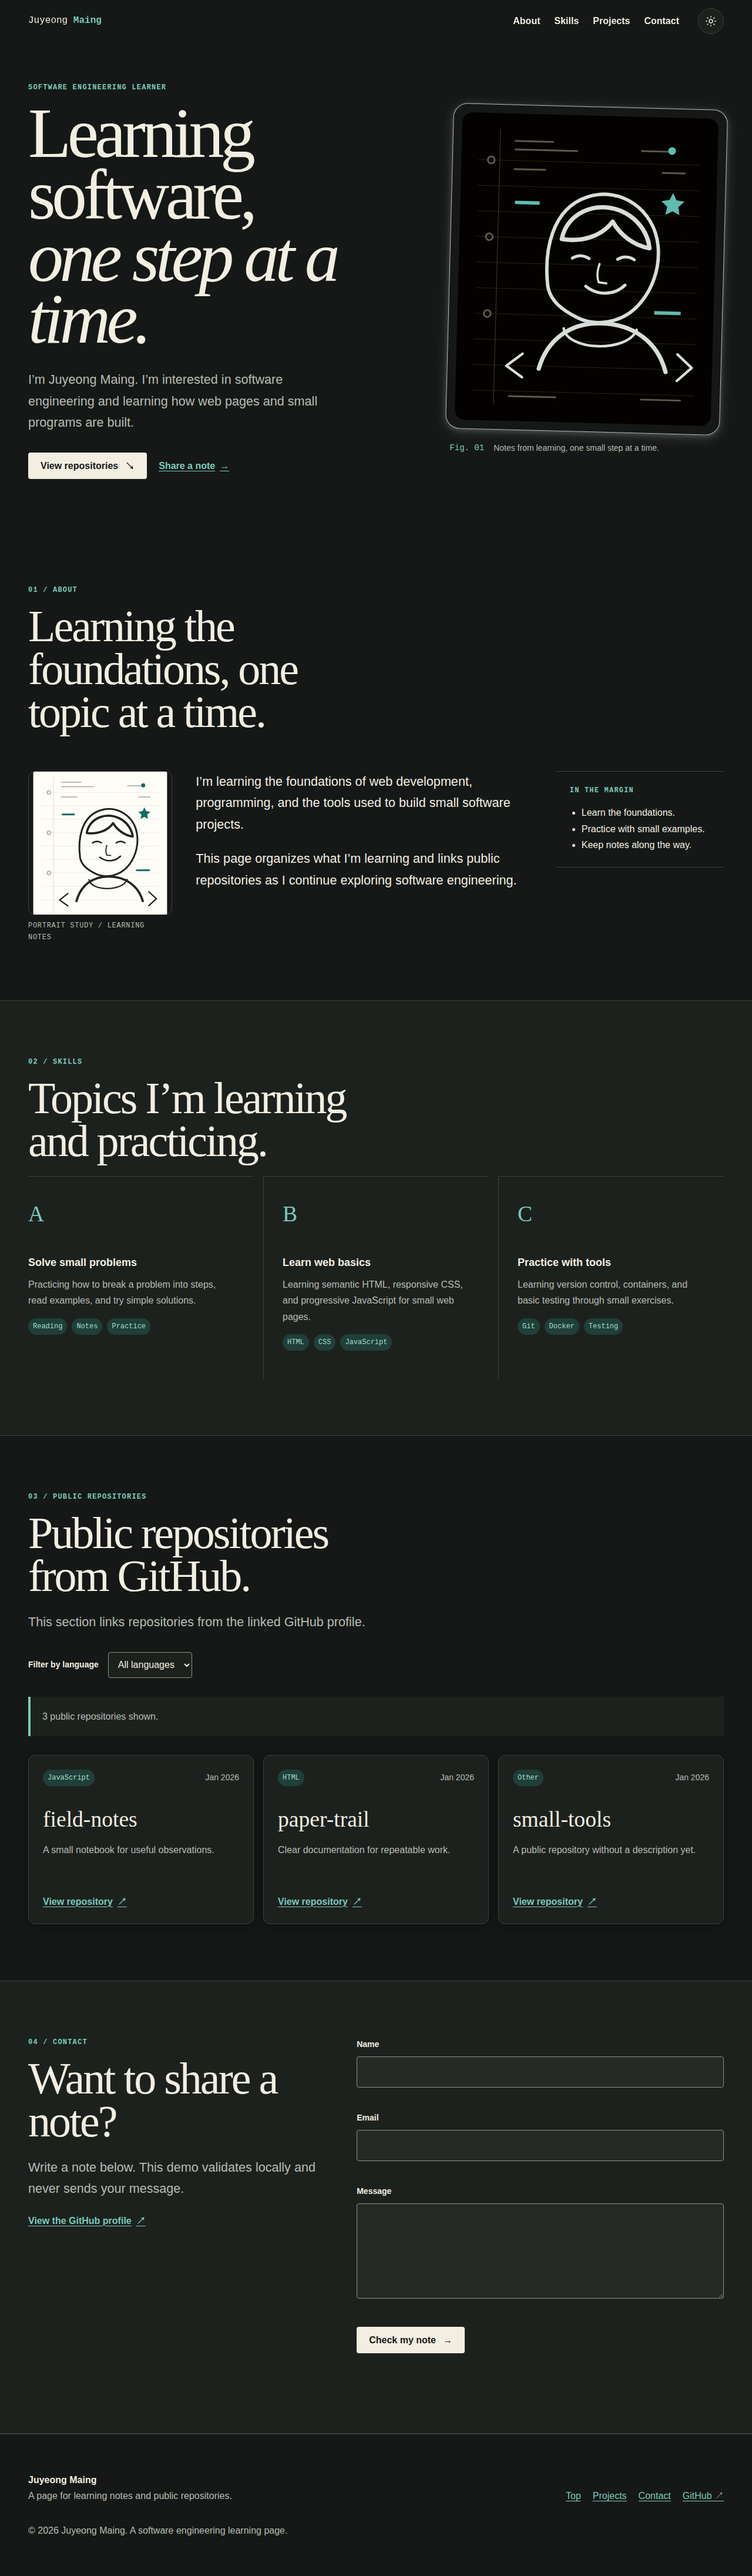
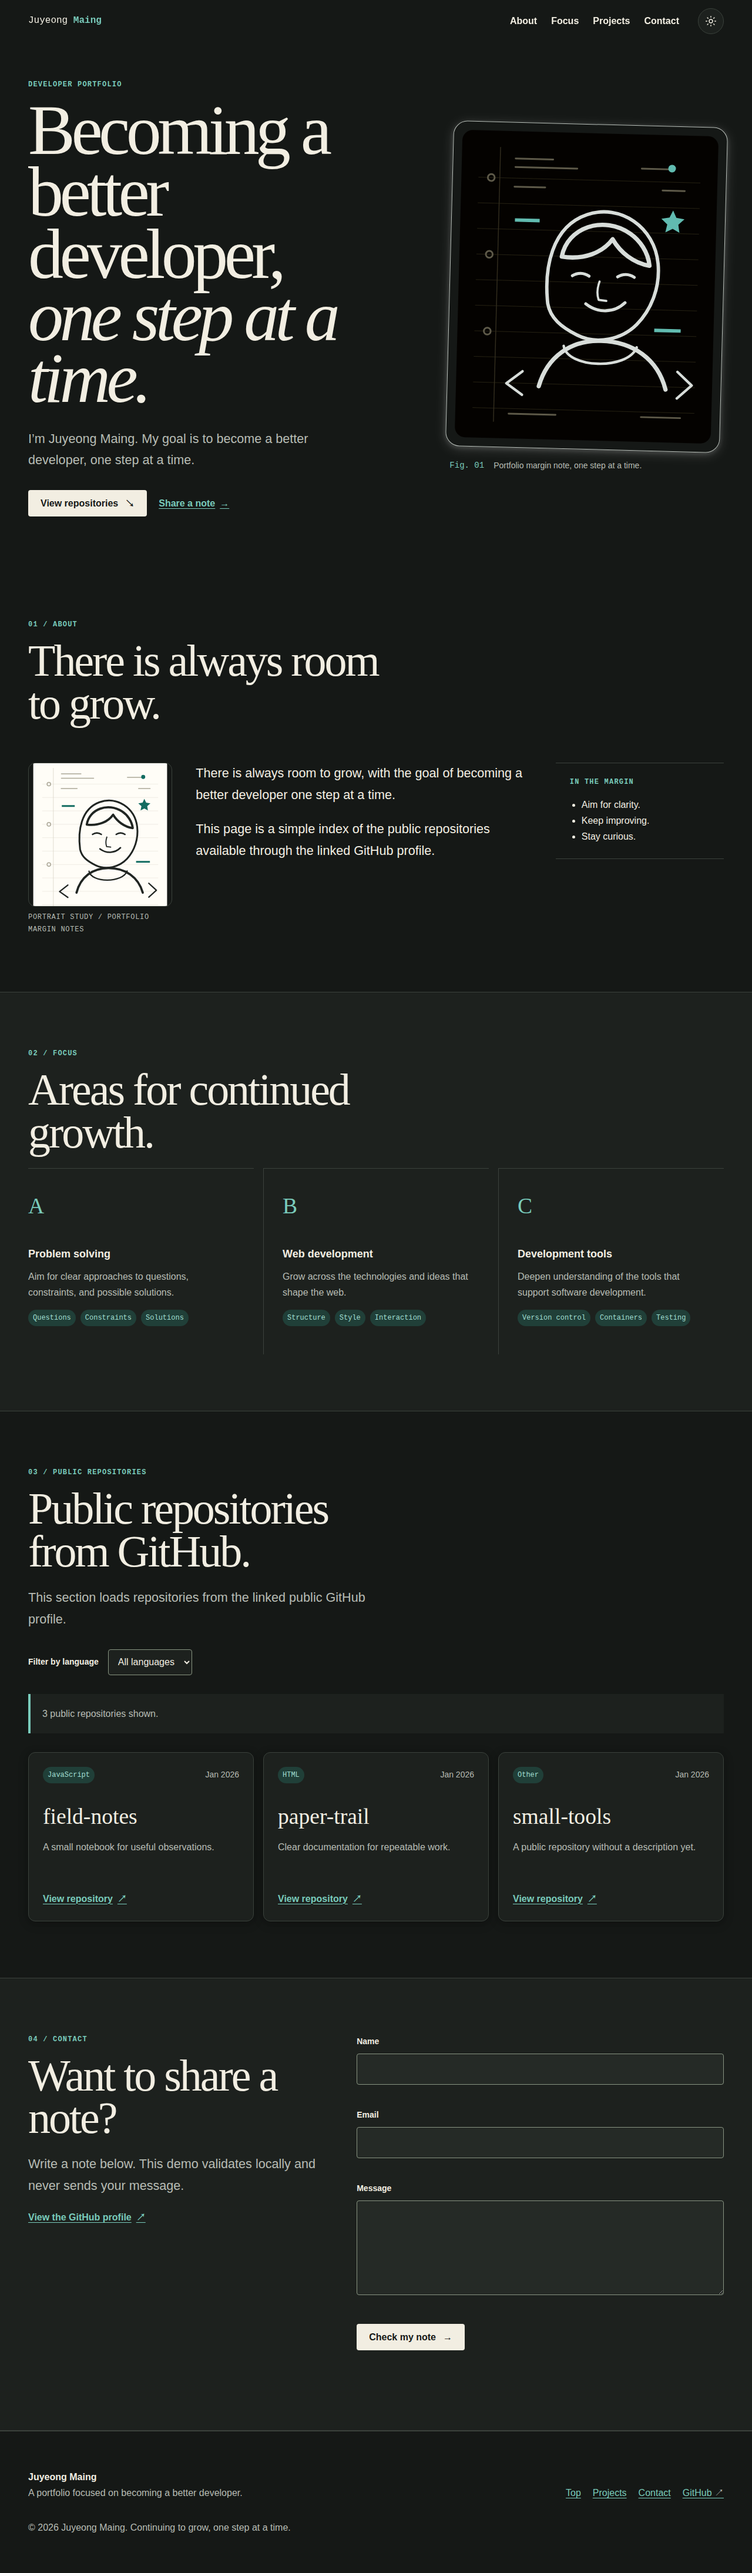
feat(B1-1): update portfolio copy toward neutral aspirations
Ultraworked with [Sisyphus](https://github.com/code-yeongyu/oh-my-openagent)

diff --git a/coursework/B1-1/index.html b/coursework/B1-1/index.html
@@ -3,10 +3,10 @@
 <head>
   <meta charset="utf-8">
   <meta name="viewport" content="width=device-width, initial-scale=1">
-  <meta name="description" content="Juyeong Maing is learning software engineering, web development, and programming, and links public GitHub repositories here.">
+  <meta name="description" content="Portfolio and public GitHub repository index for Juyeong Maing, centered on the goal of becoming a better developer.">
   <meta name="theme-color" content="#f4f1e8" media="(prefers-color-scheme: light)">
   <meta name="theme-color" content="#151816" media="(prefers-color-scheme: dark)">
-  <title>Juyeong Maing — Software engineering learner</title>
+  <title>Juyeong Maing — Becoming a better developer</title>
   <link rel="icon" href="images/profile-notes.svg" type="image/svg+xml">
   <link rel="stylesheet" href="css/style.css">
   <script type="module" src="js/app.js" defer></script>
@@ -21,7 +21,7 @@
         <svg viewBox="0 0 24 24" aria-hidden="true"><path class="menu-icon-open" d="M4 7h16M4 12h16M4 17h16"/><path class="menu-icon-close" d="m6 6 12 12M18 6 6 18"/></svg>
       </button>
       <nav class="primary-nav" id="primary-nav" aria-label="Primary navigation">
-        <a href="#about">About</a><a href="#skills">Skills</a><a href="#projects">Projects</a><a href="#contact">Contact</a>
+        <a href="#about">About</a><a href="#skills">Focus</a><a href="#projects">Projects</a><a href="#contact">Contact</a>
       </nav>
       <button class="icon-button theme-toggle" id="theme-toggle" type="button" aria-label="Toggle color theme">
         <svg class="theme-icon theme-icon-moon" viewBox="0 0 24 24" aria-hidden="true"><path d="M20 15.2A8 8 0 0 1 8.8 4a8 8 0 1 0 11.2 11.2Z"/></svg>
@@ -33,46 +33,46 @@
   <main id="main-content" tabindex="-1">
     <section class="hero section-shell" id="home" aria-labelledby="hero-title">
       <div class="hero-copy reveal">
-        <p class="eyebrow">Software engineering learner</p>
-        <h1 id="hero-title">Learning software,<br><em>one step at a time.</em></h1>
-        <p class="hero-lead">I’m Juyeong Maing. I’m interested in software engineering and learning how web pages and small programs are built.</p>
+        <p class="eyebrow">Developer portfolio</p>
+        <h1 id="hero-title">Becoming a better developer,<br><em>one step at a time.</em></h1>
+        <p class="hero-lead">I’m Juyeong Maing. My goal is to become a better developer, one step at a time.</p>
         <div class="hero-actions">
           <a class="button button-primary" href="#projects">View repositories <span aria-hidden="true">↘</span></a>
           <a class="text-link" href="#contact">Share a note <span aria-hidden="true">→</span></a>
         </div>
       </div>
       <figure class="portrait reveal">
-        <img src="images/profile-notes.svg" width="640" height="760" alt="Abstract line portrait of Juyeong Maing on a ruled software learning page">
-        <figcaption><span>Fig. 01</span> Notes from learning, one small step at a time.</figcaption>
+        <img src="images/profile-notes.svg" width="640" height="760" alt="Abstract line portrait of Juyeong Maing on a ruled portfolio page">
+        <figcaption><span>Fig. 01</span> Portfolio margin note, one step at a time.</figcaption>
       </figure>
     </section>
 
     <section class="about section-shell" id="about" aria-labelledby="about-title">
-      <div class="section-heading reveal"><p class="eyebrow">01 / About</p><h2 id="about-title">Learning the foundations, one topic at a time.</h2></div>
+      <div class="section-heading reveal"><p class="eyebrow">01 / About</p><h2 id="about-title">There is always room to grow.</h2></div>
       <figure class="about-profile reveal">
-        <img src="images/profile-notes.svg" width="640" height="760" alt="Notebook-style line portrait of Juyeong Maing surrounded by learning notes">
-        <figcaption>Portrait study / learning notes</figcaption>
+        <img src="images/profile-notes.svg" width="640" height="760" alt="Notebook-style line portrait of Juyeong Maing surrounded by portfolio margin notes">
+        <figcaption>Portrait study / portfolio margin notes</figcaption>
       </figure>
       <div class="about-copy reveal">
-        <p>I’m learning the foundations of web development, programming, and the tools used to build small software projects.</p>
-        <p>This page organizes what I’m learning and links public repositories as I continue exploring software engineering.</p>
+        <p>There is always room to grow, with the goal of becoming a better developer one step at a time.</p>
+        <p>This page is a simple index of the public repositories available through the linked GitHub profile.</p>
       </div>
-      <aside class="margin-note reveal" aria-label="Current learning notes"><p class="eyebrow">In the margin</p><ul><li>Learn the foundations.</li><li>Practice with small examples.</li><li>Keep notes along the way.</li></ul></aside>
+      <aside class="margin-note reveal" aria-label="Portfolio margin notes"><p class="eyebrow">In the margin</p><ul><li>Aim for clarity.</li><li>Keep improving.</li><li>Stay curious.</li></ul></aside>
     </section>
 
     <section class="skills section-band" id="skills" aria-labelledby="skills-title">
       <div class="section-shell">
-        <div class="section-heading reveal"><p class="eyebrow">02 / Skills</p><h2 id="skills-title">Topics I’m learning and practicing.</h2></div>
+        <div class="section-heading reveal"><p class="eyebrow">02 / Focus</p><h2 id="skills-title">Areas for continued growth.</h2></div>
         <div class="skill-grid">
-          <article class="skill-group reveal"><p class="skill-index">A</p><h3>Solve small problems</h3><p>Practicing how to break a problem into steps, read examples, and try simple solutions.</p><ul class="tag-list" aria-label="Problem-solving topics"><li>Reading</li><li>Notes</li><li>Practice</li></ul></article>
-          <article class="skill-group reveal"><p class="skill-index">B</p><h3>Learn web basics</h3><p>Learning semantic HTML, responsive CSS, and progressive JavaScript for small web pages.</p><ul class="tag-list" aria-label="Web development topics"><li>HTML</li><li>CSS</li><li>JavaScript</li></ul></article>
-          <article class="skill-group reveal"><p class="skill-index">C</p><h3>Practice with tools</h3><p>Learning version control, containers, and basic testing through small exercises.</p><ul class="tag-list" aria-label="Tool topics"><li>Git</li><li>Docker</li><li>Testing</li></ul></article>
+          <article class="skill-group reveal"><p class="skill-index">A</p><h3>Problem solving</h3><p>Aim for clear approaches to questions, constraints, and possible solutions.</p><ul class="tag-list" aria-label="Problem-solving areas"><li>Questions</li><li>Constraints</li><li>Solutions</li></ul></article>
+          <article class="skill-group reveal"><p class="skill-index">B</p><h3>Web development</h3><p>Grow across the technologies and ideas that shape the web.</p><ul class="tag-list" aria-label="Web development areas"><li>Structure</li><li>Style</li><li>Interaction</li></ul></article>
+          <article class="skill-group reveal"><p class="skill-index">C</p><h3>Development tools</h3><p>Deepen understanding of the tools that support software development.</p><ul class="tag-list" aria-label="Development tool areas"><li>Version control</li><li>Containers</li><li>Testing</li></ul></article>
         </div>
       </div>
     </section>
 
     <section class="projects section-shell" id="projects" aria-labelledby="projects-title">
-      <div class="section-heading reveal"><p class="eyebrow">03 / Public repositories</p><h2 id="projects-title">Public repositories from GitHub.</h2><p>This section links repositories from the linked GitHub profile.</p></div>
+      <div class="section-heading reveal"><p class="eyebrow">03 / Public repositories</p><h2 id="projects-title">Public repositories from GitHub.</h2><p>This section loads repositories from the linked public GitHub profile.</p></div>
       <div class="project-tools reveal">
         <label for="project-filter">Filter by language</label>
         <select id="project-filter" disabled><option value="all">All languages</option></select>
@@ -98,7 +98,7 @@
     </section>
   </main>
 
-  <footer class="site-footer"><div class="section-shell footer-inner"><p><strong>Juyeong Maing</strong><br><span>A page for learning notes and public repositories.</span></p><nav aria-label="Footer navigation"><a href="#home">Top</a><a href="#projects">Projects</a><a href="#contact">Contact</a><a href="https://github.com/mjy9088">GitHub <span aria-hidden="true">↗</span></a></nav><p class="footer-note">© 2026 Juyeong Maing. A software engineering learning page.</p></div></footer>
+  <footer class="site-footer"><div class="section-shell footer-inner"><p><strong>Juyeong Maing</strong><br><span>A portfolio focused on becoming a better developer.</span></p><nav aria-label="Footer navigation"><a href="#home">Top</a><a href="#projects">Projects</a><a href="#contact">Contact</a><a href="https://github.com/mjy9088">GitHub <span aria-hidden="true">↗</span></a></nav><p class="footer-note">© 2026 Juyeong Maing. Continuing to grow, one step at a time.</p></div></footer>
   <button class="icon-button back-to-top" id="back-to-top" type="button" aria-label="Back to top" aria-hidden="true" tabindex="-1"><svg viewBox="0 0 24 24" aria-hidden="true"><path d="m5 14 7-7 7 7M12 7v14"/></svg></button>
 
 </body>
